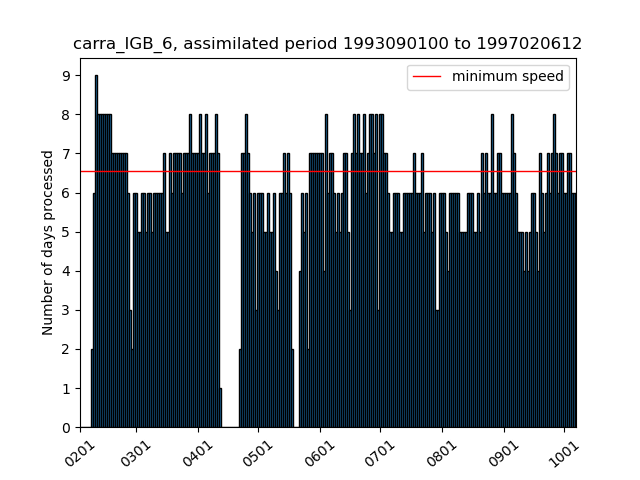
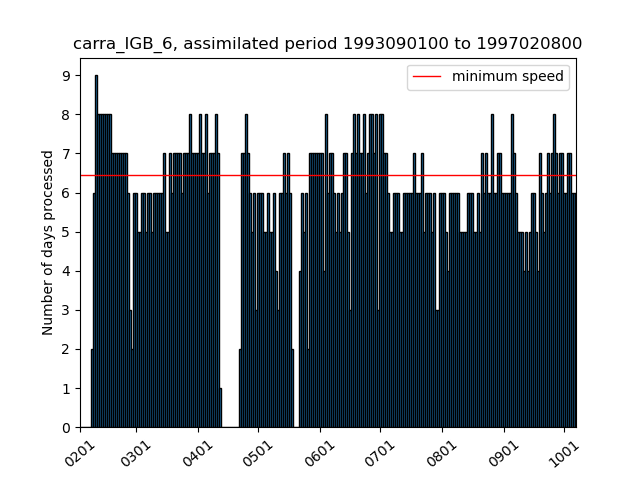
update repo

Changed region(s): [[0.125, 0.3438, 0.9062, 0.375], [0.8438, 0.0625, 0.9062, 0.125]]

diff --git a/current_state_sims.html b/current_state_sims.html
@@ -2,18 +2,18 @@
 <h1>Estimated completion dates and simulation speeds</h1>
 <p>Stream (production) completion date based on 30d (7d) moving avg speed</p>
 <p><a href="https://docs.google.com/document/d/1zDKAxuEXYnWWYzT3SZnZwY5WW8nodUMeYRjAGz46coc/edit#">Details of the calculation of the completion dates</a></p>
-<p>Last update: 2021/10/08 06:43:50 UTC</p>
+<p>Last update: 2021/10/08 12:42:04 UTC</p>
 <p>Total progress CARRA: 99.55% <a href="https://hirlam.org/portal/CARRA/Progress/GanntChart_CARRA.html"> (see detailed progress meter in Gantt chart) </a></p>
 <p>Total progress PANARCTIC: 91.67% </p>
 <p><a href="https://hirlam.org/portal/CARRA/Progress/waiting_times.html"> Queue waiting times for all streams</a></p>
 <p><a href="https://hirlam.org/portal/CARRA/Progress/mars_status.html"> MARS archive throughput </a></p>
 <html><table border="1"><tr><th>expId</th><th>Current assimilated date</th><th>End date of stream </th><th> Completion date</th><th> Avg. throughput (7d) </th> <th>Avg. throughput (30d) </th> <th> Remarks</tr>
-<tr bgcolor="#FFFF00"><td>carra_NE_3</td><td>2021063000</td><td>2021063021</td><td>2021100806</td><td>(0.0) days/day</td><td>(2.4) days/day</td><td>Inactive the past week</tr>
+<tr bgcolor="#FFFF00"><td>carra_NE_3</td><td>2021063000</td><td>2021063021</td><td>2021100812</td><td>(0.0) days/day</td><td>(2.4) days/day</td><td>Inactive the past week</tr>
 <tr bgcolor="#33FF38"><td>carra_NE_4</td><td>1992090100</td><td>1992083021</td><td>Finished on 20210824</td><td>(0.0) days/day</td><td>(0.0) days/day</td><td>Stream finished</tr>
 <tr bgcolor="#33FF38"><td>carra_NE_5</td><td>1994090100</td><td>1994083021</td><td>Finished on 20210824</td><td>(0.0) days/day</td><td>(0.0) days/day</td><td>Stream finished</tr>
-<tr bgcolor="#33FF38"><td>carra_NE_6</td><td>1997070100</td><td>1997063021</td><td>2021100715</td><td>(0.0) days/day</td><td>(1.53) days/day</td><td>Stream finished</tr>
-<tr bgcolor="#FFFF00"><td>carra_IGB_3</td><td>2021063000</td><td>2021063021</td><td>2021100806</td><td>(0.0) days/day</td><td>(2.53) days/day</td><td>Inactive the past week</tr>
+<tr bgcolor="#33FF38"><td>carra_NE_6</td><td>1997070100</td><td>1997063021</td><td>2021100721</td><td>(0.0) days/day</td><td>(1.53) days/day</td><td>Stream finished</tr>
+<tr bgcolor="#FFFF00"><td>carra_IGB_3</td><td>2021063000</td><td>2021063021</td><td>2021100812</td><td>(0.0) days/day</td><td>(2.53) days/day</td><td>Inactive the past week</tr>
 <tr bgcolor="#33FF38"><td>carra_IGB_4</td><td>1992090100</td><td>1992083021</td><td>Finished on 20210907</td><td>(0.0) days/day</td><td>(0.0) days/day</td><td>Stream finished</tr>
-<tr bgcolor="#33FF38"><td>carra_IGB_5</td><td>1994090100</td><td>1994083021</td><td>2021100716</td><td>(0.0) days/day</td><td>(3.4) days/day</td><td>Stream finished</tr>
-<tr bgcolor="#FFA500"><td>carra_IGB_6</td><td>1997020612</td><td>1997063021</td><td>2021110116</td><td>(6.29) days/day</td><td>(5.9) days/day</td><td>Completion date after project end (20211031)</tr>
-<tr bgcolor="#33FF38"><td>carra_pan</td><td>2018090100</td><td>2018090100</td><td>2021100806</td><td>(3.71) days/day</td><td>(3.43) days/day</td><td>Stream finished</tr>
+<tr bgcolor="#33FF38"><td>carra_IGB_5</td><td>1994090100</td><td>1994083021</td><td>2021100722</td><td>(0.0) days/day</td><td>(3.4) days/day</td><td>Stream finished</tr>
+<tr bgcolor="#FFA500"><td>carra_IGB_6</td><td>1997020800</td><td>1997063021</td><td>2021110114</td><td>(6.29) days/day</td><td>(5.9) days/day</td><td>Completion date after project end (20211031)</tr>
+<tr bgcolor="#33FF38"><td>carra_pan</td><td>2018090100</td><td>2018090100</td><td>2021100812</td><td>(3.71) days/day</td><td>(3.43) days/day</td><td>Stream finished</tr>
